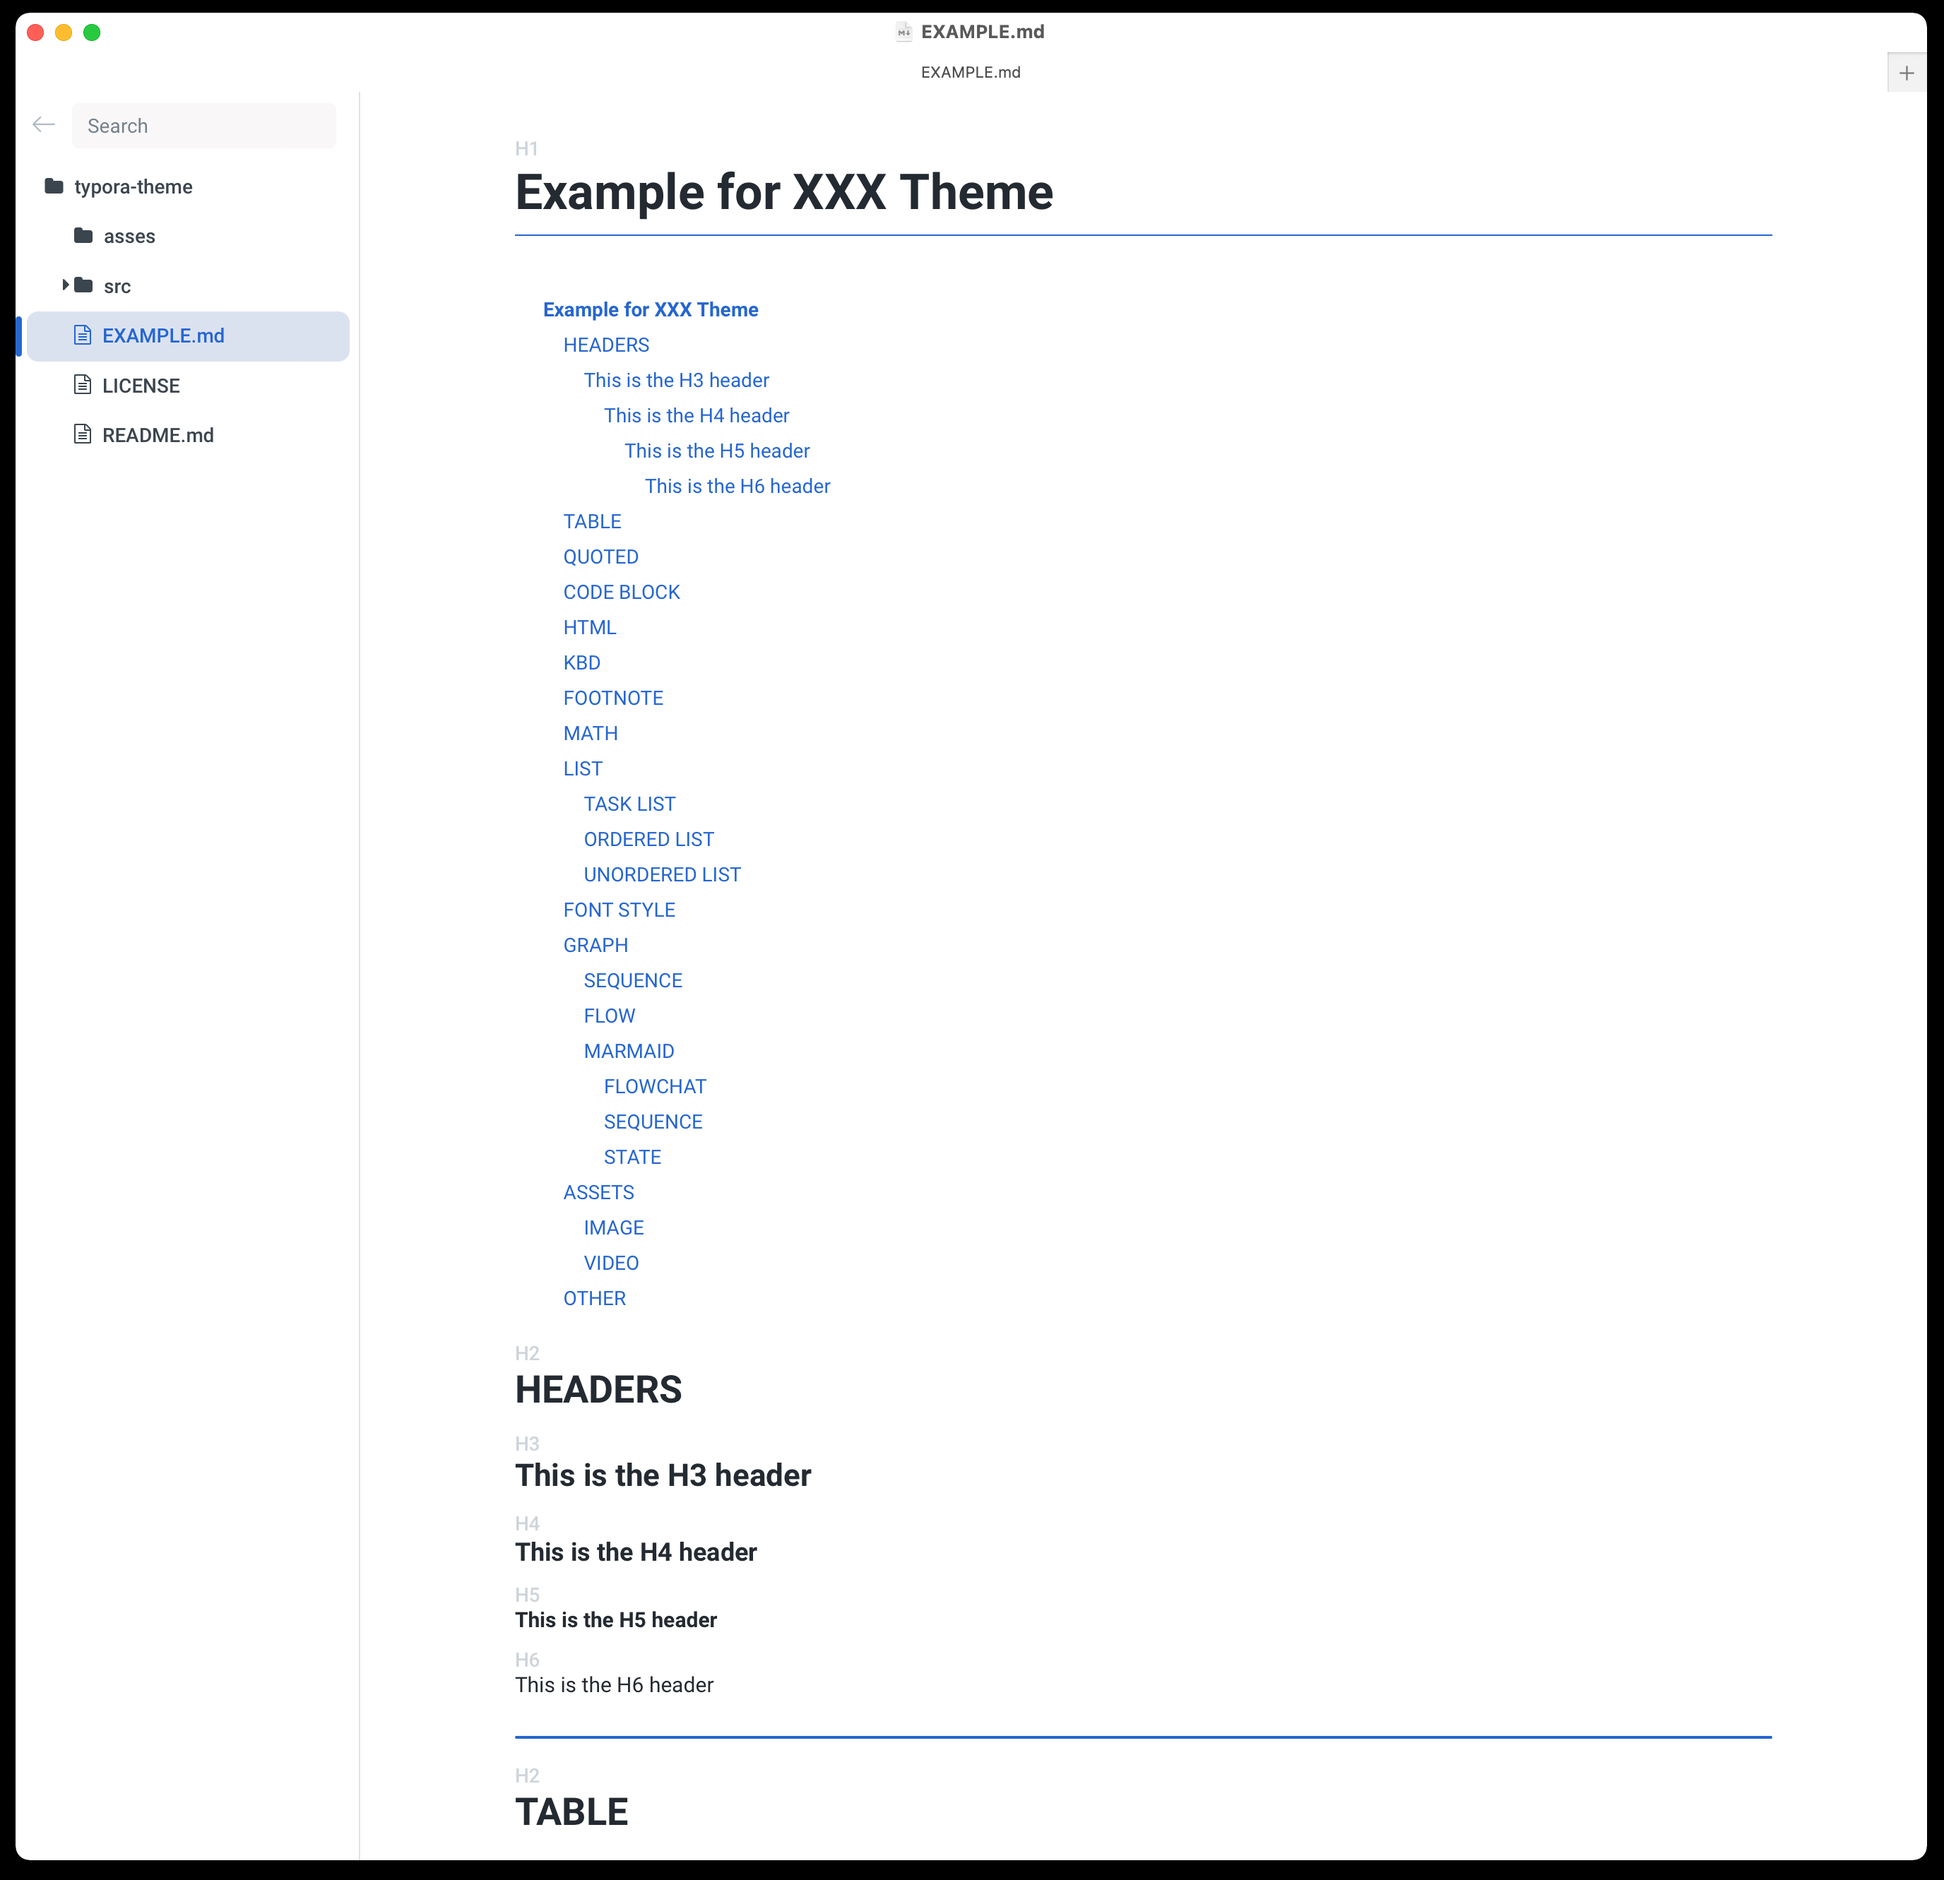
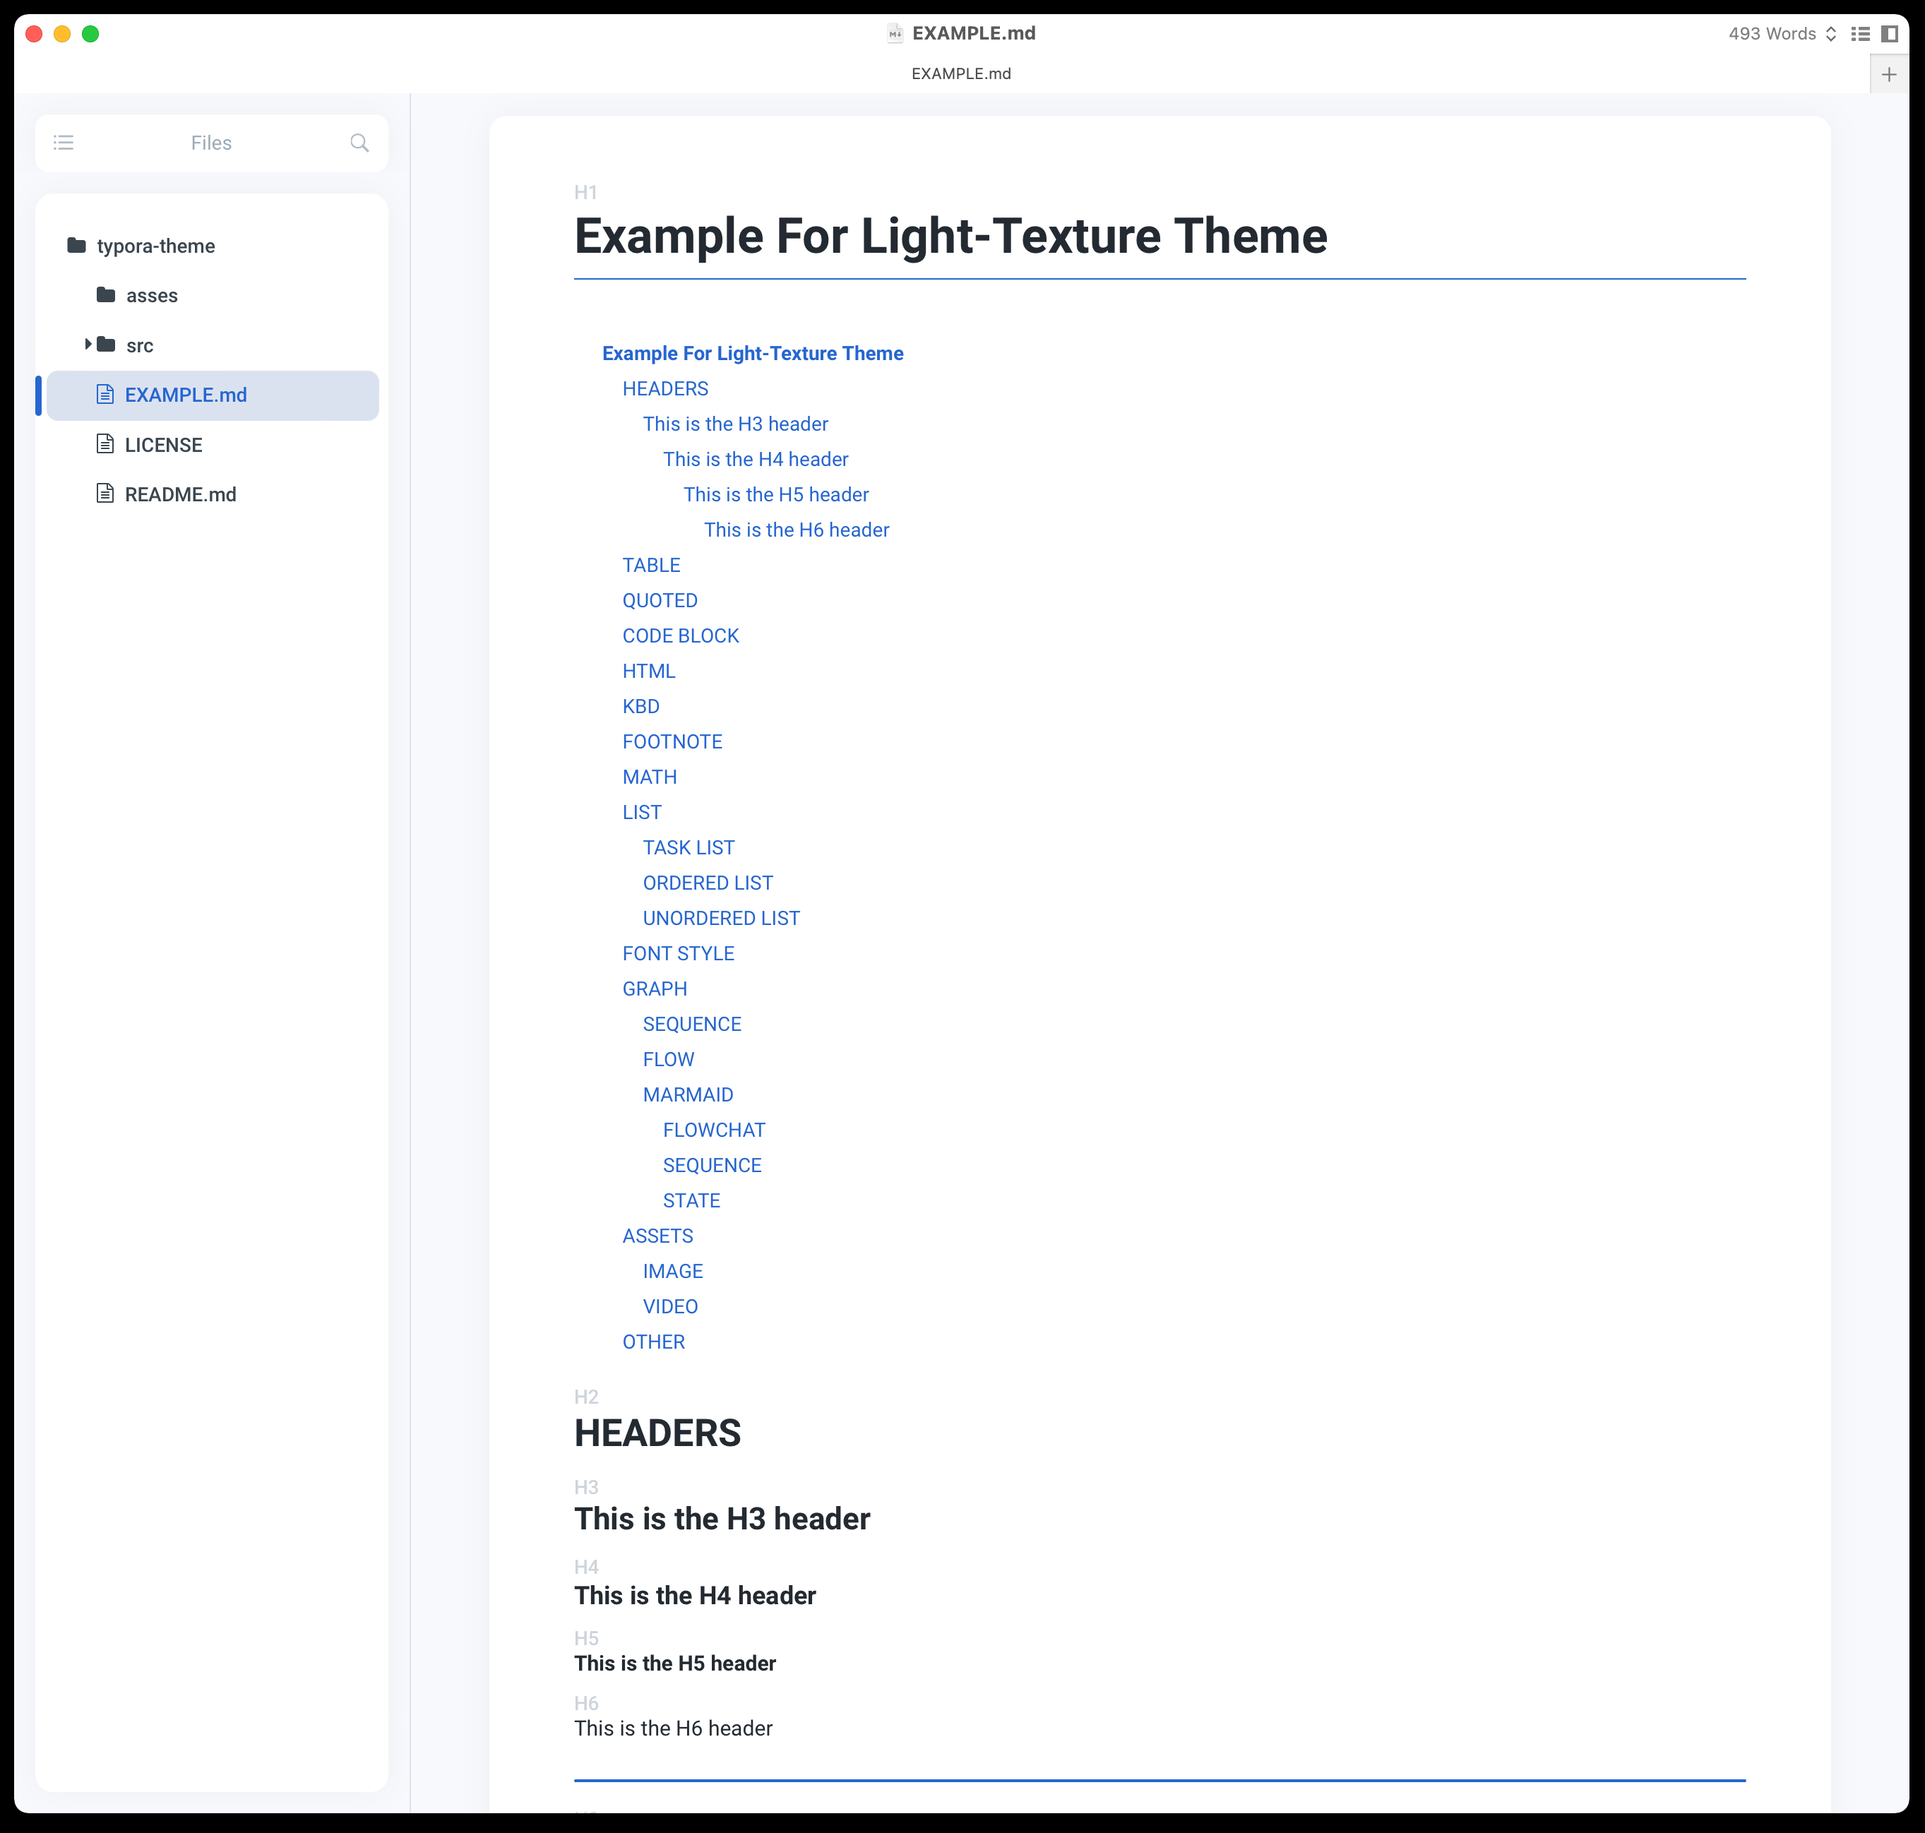
docs(readme)：up

diff --git a/src/light-texture.css b/src/light-texture.css
@@ -1,4 +1,4 @@
-@import url(./xxx/font.css);
+@import url(./light-texture/font.css);
 
 :root {
   

diff --git a/EXAMPLE.md b/EXAMPLE.md
@@ -1,4 +1,4 @@
-# Example for XXX Theme
+# Example For Light-Texture Theme
 
 [TOC]
 
@@ -190,7 +190,7 @@ stateDiagram
 
 ### VIDEO
 
-<video src="https://rr5---sn-i3b7knzs.googlevideo.com/videoplayback?expire=1644702274&ei=4tUHYta1E6Gmx_APhZWrwAM&ip=212.102.36.16&id=o-AL7MOKFBuPL-GlUz9MfCoN4HmwkmuRLFW5VUasGfJ-bE&itag=18&source=youtube&requiressl=yes&vprv=1&mime=video%2Fmp4&ns=uGE8nnM-1810J_6snCIj5g4G&gir=yes&clen=5229495&ratebypass=yes&dur=114.660&lmt=1575928905318175&fexp=24001373,24007246&c=WEB&txp=2311222&n=5AWUHix1t0_aHQ&sparams=expire%2Cei%2Cip%2Cid%2Citag%2Csource%2Crequiressl%2Cvprv%2Cmime%2Cns%2Cgir%2Cclen%2Cratebypass%2Cdur%2Clmt&sig=AOq0QJ8wRQIhAIy_qhE57Cw-EJ19rWPeBWBLiKMQIeTX71BvjFWn3rbYAiAZHp8FMOtWgACha4N2mvsUb4Nen3aiYs70e3LjX57mdQ%3D%3D&redirect_counter=1&rm=sn-4g5ede76&req_id=f20fd8885adaa3ee&cms_redirect=yes&ipbypass=yes&mh=YY&mip=103.144.149.88&mm=31&mn=sn-i3b7knzs&ms=au&mt=1644680729&mv=m&mvi=5&pl=23&lsparams=ipbypass,mh,mip,mm,mn,ms,mv,mvi,pl&lsig=AG3C_xAwRQIhAJuvzbe0wePS-Vz78_9ik8h_NtmGJq4oPUPnroPgo63nAiAlLH7748wk4FJwErWw5j5G4c8STYc0EqVVScSBUet3Mg%3D%3D" />
+<video src="https://rr5---sn-npoldn7z.googlevideo.com/videoplayback?expire=1644873377&ei=QXIKYouDHNXJx_AP0Pm6uAI&ip=94.46.220.95&id=o-AO3yyl7uDdTi3v8uSN7xnhsL-wqQ80xuBuU1JRlzJ06s&itag=18&source=youtube&requiressl=yes&vprv=1&mime=video%2Fmp4&ns=BQJXQccE0lA3zg-2YHORyCkG&gir=yes&clen=5229495&ratebypass=yes&dur=114.660&lmt=1575928905318175&fexp=24001373,24007246&c=WEB&txp=2311222&n=pqGTYSCnifqr9A&sparams=expire%2Cei%2Cip%2Cid%2Citag%2Csource%2Crequiressl%2Cvprv%2Cmime%2Cns%2Cgir%2Cclen%2Cratebypass%2Cdur%2Clmt&sig=AOq0QJ8wRgIhANfTdRgj0GtErwb7K2y1NXA6s-x0WOV1F8Z2eHxSW4rJAiEAhHYDQiuKOpJXZRNRt9GyjB8WicK7NWkEbZxUTrMi34o%3D&redirect_counter=1&cm2rm=sn-aiges676&req_id=1bc0f67c0612a3ee&cms_redirect=yes&mh=YY&mip=103.144.149.88&mm=34&mn=sn-npoldn7z&ms=ltu&mt=1644851568&mv=m&mvi=5&pl=23&lsparams=mh,mip,mm,mn,ms,mv,mvi,pl&lsig=AG3C_xAwRAIgQD10BFg0un8hH1JgNGSc5wLh4CjJdSaqAsX4o38Cj1wCIFQhT6BqmGmOHbZEbrfUmQWO7WN4Sr9EqtKrGZNUbBZi" />
 
 
 ----

diff --git a/README_CN.md b/README_CN.md
@@ -1,0 +1,33 @@
+# 轻质感Typora主题
+
+一款好看的主题会激起我们的写作欲望和激励我们学习
+
+[`English`](REDME.md) |	中文
+
+## 什么
+
+一个轻质感的typora主题，简约而不简单
+
+## 安装
+
+1. [`下载主题包`](https://github.com/xxxDeveloper/typora-xxx-theme/releases/download/v1.0.1/xxx-theme-v1.0.1.zip)
+2. 将Light Texture主题包解压到typora主题包中
+3. 在typora中选择Light Texture主题
+
+
+## 截图
+
+![Screenshot-1](asses/Screenshot-1.png)
+![Screenshot-2](asses/Screenshot-2.png)
+![Screenshot-3](asses/Screenshot-3.png)
+![Screenshot-4](asses/Screenshot-4.png)
+![Screenshot-5](asses/Screenshot-5.png)
+![Screenshot-6](asses/Screenshot-6.png)
+![Screenshot-7](asses/Screenshot-7.png)
+
+## 参考
+
+本项目参考以下项目：
+
+ - [`typora-gitbook-theme`](https://github.com/h16nning/typora-gitbook-theme)
+ - [`typora-panda-theme`](https://github.com/gilbertohasnofb/typora-panda-theme)

diff --git a/README.md b/README.md
@@ -1,11 +1,12 @@
-# Typora XXX Theme
+# Typora Light-Texture Theme
 
-Good-looking themes inspire us to write and inspire us to learn.
+A good-looking theme will arouse our desire to write and motivate us to learn.
 
-## Why
+English |	[`中文`](./REDME_CN.md)
 
-Why is it called xxx theme ???  
-Because I haven't figured out the name of the theme yet ~~~
+## What
+
+A light textured typora theme, simplicity is not easy.
 
 ## Install
 
@@ -26,7 +27,7 @@ Because I haven't figured out the name of the theme yet ~~~
 
 ## Reference
 
-This project references the following projects
+This project references the following projects：
 
  - [`typora-gitbook-theme`](https://github.com/h16nning/typora-gitbook-theme)
  - [`typora-panda-theme`](https://github.com/gilbertohasnofb/typora-panda-theme)
